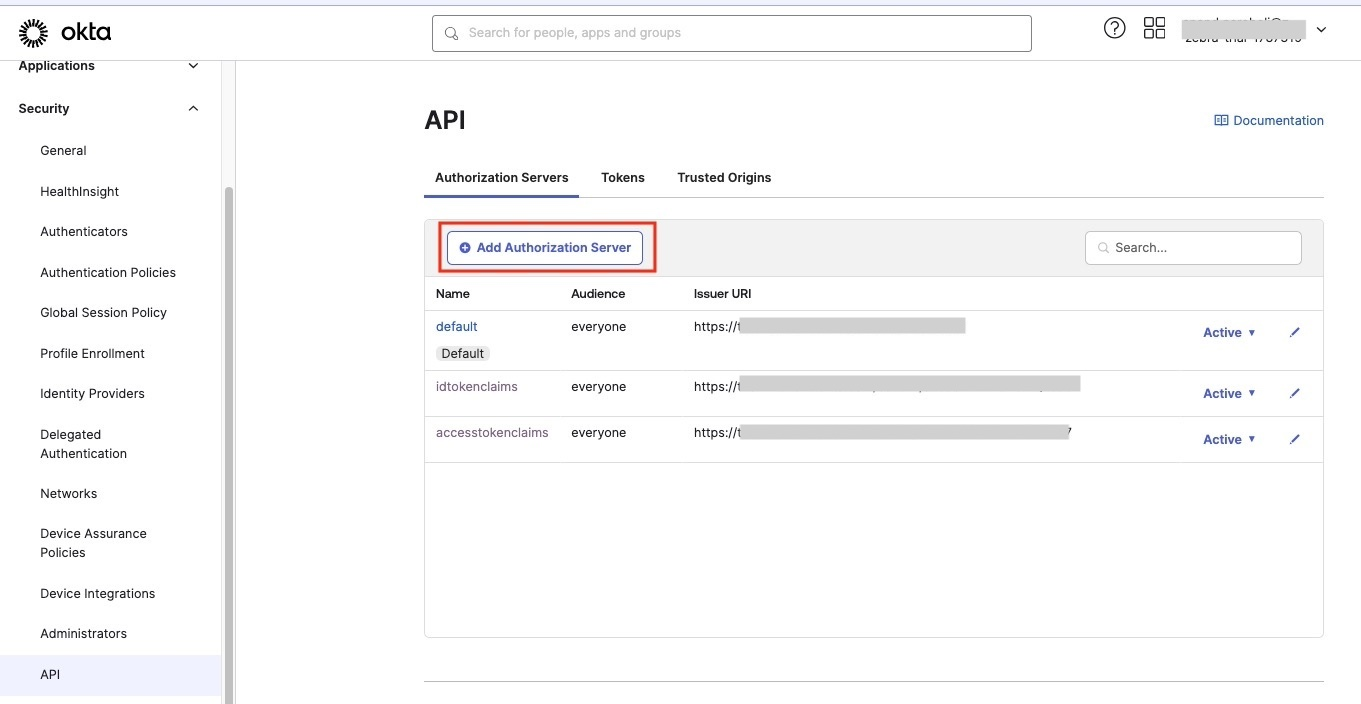
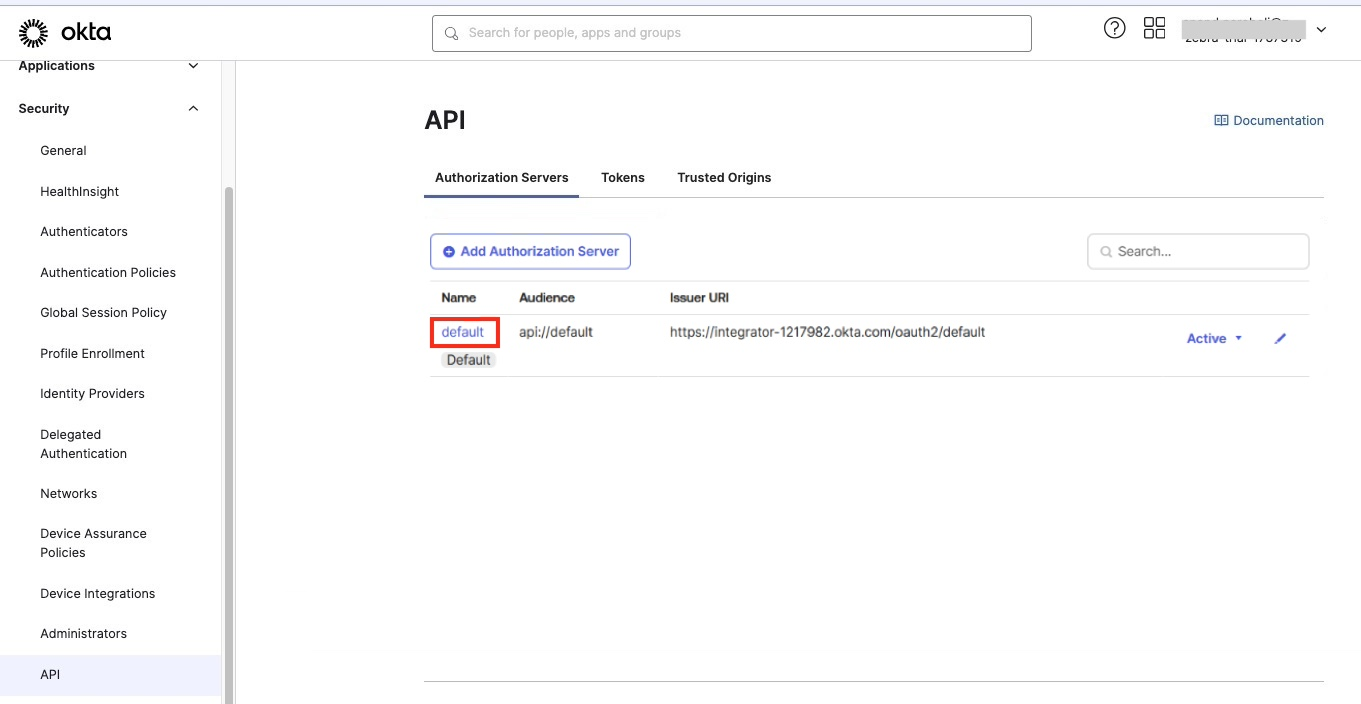
[TUT-104852] IG - Okta documentation gaps

diff --git a/identityguardian/2-3/setup/index.html b/identityguardian/2-3/setup/index.html
@@ -1081,9 +1081,7 @@ _Sample of Managed App Config from SOTI MobiControl. Other EMMs may vary.</em></
 <ul>
 <li>Enter the <strong>App integration name.</strong></li>
 
-<li>Select <strong>Authorization Code</strong> as the <strong>Grant type.</strong></li>
-
-<li>If needed, select <strong>Refresh Token.</strong> This option renews the access token every hour. Without it, the access token expires after an hour, resulting in a forced logout.</li>
+<li>If needed, select <strong>Refresh Token,</strong> which contains credentials that can be used to obtain a new access token without requiring the user to re-authenticate. This is particularly useful for maintaining a user’s session without requiring them to log in again after their access token expires.</li>
 
 <li>For <strong>Sign-in redirect URIs</strong> and <strong>Sign-out redirect URIs,</strong> enter the following: <code>com.zebra.mdna.els:/loginComplete</code>
 <img alt="image" style="height:450px" src="okta-new-native-app.jpg"></li></ul>
@@ -1099,40 +1097,45 @@ _Sample of Managed App Config from SOTI MobiControl. Other EMMs may vary.</em></
 <img alt="image" style="height:400px" src="okta-new-native-app-2.jpg"></li></ul>
 </li>
 
-<li>If needed, add an authorization server from <strong>Security &gt; API.</strong>
+<li>From <strong>Security &gt; API,</strong> click on <strong>Default.</strong>
 <img alt="image" style="height:450px" src="okta-api.jpg"></li>
 
-<li>If needed, add scopes in the authorization server.
-<img alt="image" style="height:450px" src="okta-add-scopes.jpg"></li>
+<li>Click on the <strong>Access Policies</strong> tab, then click on <strong>Add Policy.</strong>
+<img alt="image" style="height:450px" src="okta-access-policies.png"></li>
 
-<li>Add claims to the authorization server.
-<img alt="image" style="height:450px" src="okta-add-claim.jpg"></li>
+<li>Enter a name and description. Click <strong>Create Policy.</strong>
+<img alt="image" style="height:450px" src="okta-add-policy.png"></li>
 
-<li>In the <strong>Settings</strong> tab of the authorization server, click to open the <strong>Metadata URI.</strong>
-<img alt="image" style="height:450px" src="okta-metadata-uri.jpg"></li>
+<li>The policy is added. Click <strong>Add Rule.</strong>
+<img alt="image" style="height:450px" src="okta-add-policy-2.png"></li>
 
-<li>Metadata is displayed, similar to the following:
-<img alt="image" style="height:450px" src="okta-metadata.jpg"></li>
+<li>Enter a name for the rule and fill out the remaining fields as needed. Click <strong>Create rule.</strong>
+<img alt="image" style="height:450px" src="okta-add-rule.png"></li>
 
-<li>Record the following values needed in the next section:
-
-
-<ul>
-<li>authorizationScope</li>
-
-<li>end_session_endpoint (logoutURL)</li>
-
-<li>token_endpoint (tokenURL)</li>
-
-<li>authorization_endpoint (authorizationURL)</li>
-
-<li>userInfoUrl</li>
-
-<li>revokeURL (revocation_endpoint)
-<br>
-<br></li></ul>
-</li>
+<li>The rule is added.
+<img alt="image" style="height:450px" src="okta-add-rule-2.png"></li>
 </ol>
+
+<!-- // Replaced instructions
+6. If needed, add scopes in the authorization server.
+   <img alt="image" style="height:450px" src="okta-add-scopes.jpg" />
+7. Add claims to the authorization server.
+   <img alt="image" style="height:450px" src="okta-add-claim.jpg" />
+8. In the **Settings** tab of the authorization server, click to open the **Metadata URI.**
+   <img alt="image" style="height:450px" src="okta-metadata-uri.jpg" />
+9. Metadata is displayed, similar to the following:
+   <img alt="image" style="height:450px" src="okta-metadata.jpg" />
+10. Record the following values needed in the next section:
+    - authorizationScope
+    - end_session_endpoint (logoutURL)
+    - token_endpoint (tokenURL)
+    - authorization_endpoint (authorizationURL)
+    - userInfoUrl
+    - revokeURL (revocation_endpoint)
+-->
+
+<p><br>
+<br></p>
 
 <h4 id="iiconfigurezebraidentityguardianapp" class="anchor"><a class="heading-anchor" href="#iiconfigurezebraidentityguardianapp"><span></span></a>II. Configure Zebra Identity Guardian App</h4>
 

diff --git a/identityguardian/2-3/about/index.html b/identityguardian/2-3/about/index.html
@@ -303,7 +303,19 @@ Using [managed configurations](../mc/) through Zebra’s DNA Cloud platform or E
 
 <hr>
 
-<h2 id="newin22" class="anchor"><a class="heading-anchor" href="#newin22"><span></span></a>New in 2.2</h2>
+<h2 id="newin23" class="anchor"><a class="heading-anchor" href="#newin23"><span></span></a>New in 2.3</h2>
+
+<ul>
+<li>New zCreator app replaces previous IGQRPrint App.</li>
+
+<li>Revised procedure for configuring <a href="../setup/#okta">Okta</a> with Identity Guardian.</li>
+</ul>
+
+<hr>
+
+<h2 id="versionhistory" class="anchor"><a class="heading-anchor" href="#versionhistory"><span></span></a>Version History</h2>
+
+<h3 id="newin22" class="anchor"><a class="heading-anchor" href="#newin22"><span></span></a>New in 2.2</h3>
 
 <ul>
 <li><strong>Introduced expanded <a href="/zebradna/latest/setup/#manageigusers">user management</a> in Zebra DNA Cloud -</strong> Administrators can now create, edit, and manage users directly within the DNA Cloud console. Users can be created either individually or through bulk upload. To support this feature, the following new values have been added to the <a href="../mc/#authenticationconfiguration">Authentication Configuration</a> section of Managed Configurations:
@@ -355,10 +367,6 @@ Using [managed configurations](../mc/) through Zebra’s DNA Cloud platform or E
 <li><strong>Devices configured with SOTI Kiosk Mode may intermittently encounter an authentication error when logging in with SSO credentials after a reboot.</strong> To avoid this issue, Zebra recommends to wait at least one minute after rebooting the device before attempting to log in with SSO credentials.</li></ul>
 </li>
 </ul>
-
-<hr>
-
-<h2 id="versionhistory" class="anchor"><a class="heading-anchor" href="#versionhistory"><span></span></a>Version History</h2>
 
 <h3 id="newin21" class="anchor"><a class="heading-anchor" href="#newin21"><span></span></a>New in 2.1</h3>
 

diff --git a/identityguardian/2-3/mc/index.html b/identityguardian/2-3/mc/index.html
@@ -71,7 +71,7 @@
                         <li class="navbar-text pull-left"><strong>TechDocs</strong></li>
                         <p class="navbar-text">
                                             Identity Guardian
-                                            2.2
+                                            2.3
                         </p>
 
                     </ul>
@@ -233,7 +233,7 @@
                                     <h1 id="managed-configurations" class="anchor"><a class="heading-anchor" href="#managed-configurations"><span></span></a>Managed Configurations</h1>
                                     <p>
                                             Identity Guardian
-                                            2.2
+                                            2.3
                                     </p>
                                 </div>
                             </section>                    

diff --git a/identityguardian/2-3/licensing/index.html b/identityguardian/2-3/licensing/index.html
@@ -71,7 +71,7 @@
                         <li class="navbar-text pull-left"><strong>TechDocs</strong></li>
                         <p class="navbar-text">
                                             Identity Guardian
-                                            2.1
+                                            2.3
                         </p>
 
                     </ul>
@@ -233,7 +233,7 @@
                                     <h1 id="licensing" class="anchor"><a class="heading-anchor" href="#licensing"><span></span></a>Licensing</h1>
                                     <p>
                                             Identity Guardian
-                                            2.1
+                                            2.3
                                     </p>
                                 </div>
                             </section>                    

diff --git a/identityguardian/2-3/api/index.html b/identityguardian/2-3/api/index.html
@@ -71,7 +71,7 @@
                         <li class="navbar-text pull-left"><strong>TechDocs</strong></li>
                         <p class="navbar-text">
                                             Identity Guardian
-                                            2.1
+                                            2.3
                         </p>
 
                     </ul>
@@ -233,7 +233,7 @@
                                     <h1 id="apis" class="anchor"><a class="heading-anchor" href="#apis"><span></span></a>APIs</h1>
                                     <p>
                                             Identity Guardian
-                                            2.1
+                                            2.3
                                     </p>
                                 </div>
                             </section>                    
